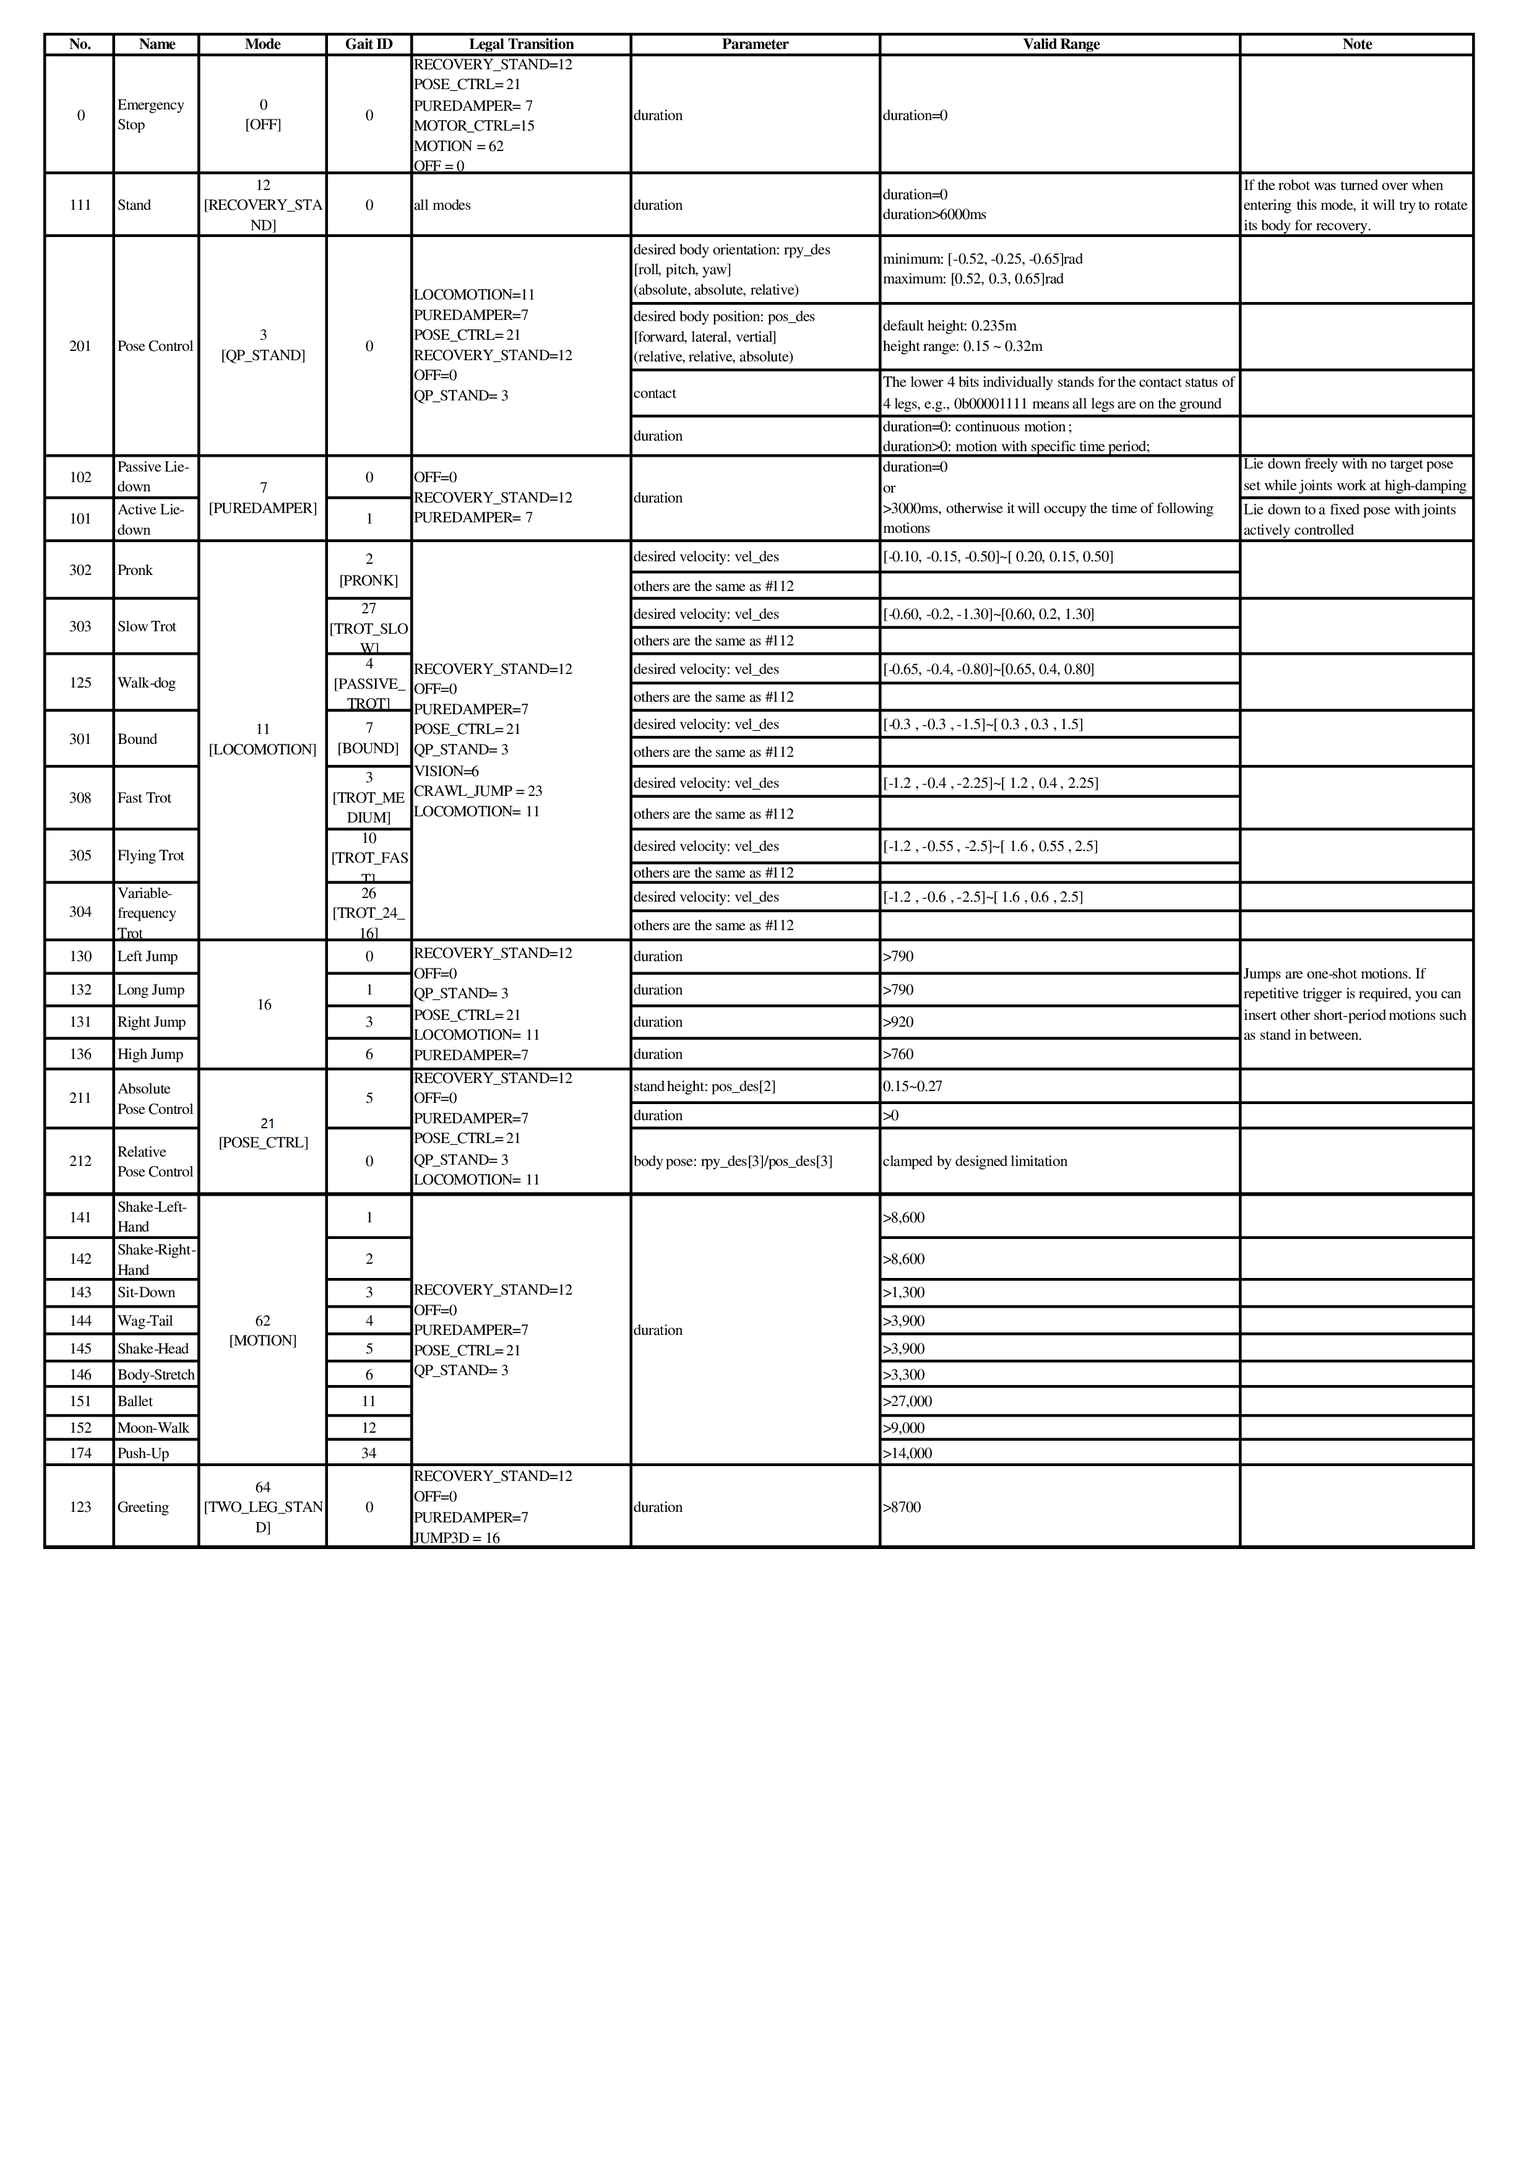
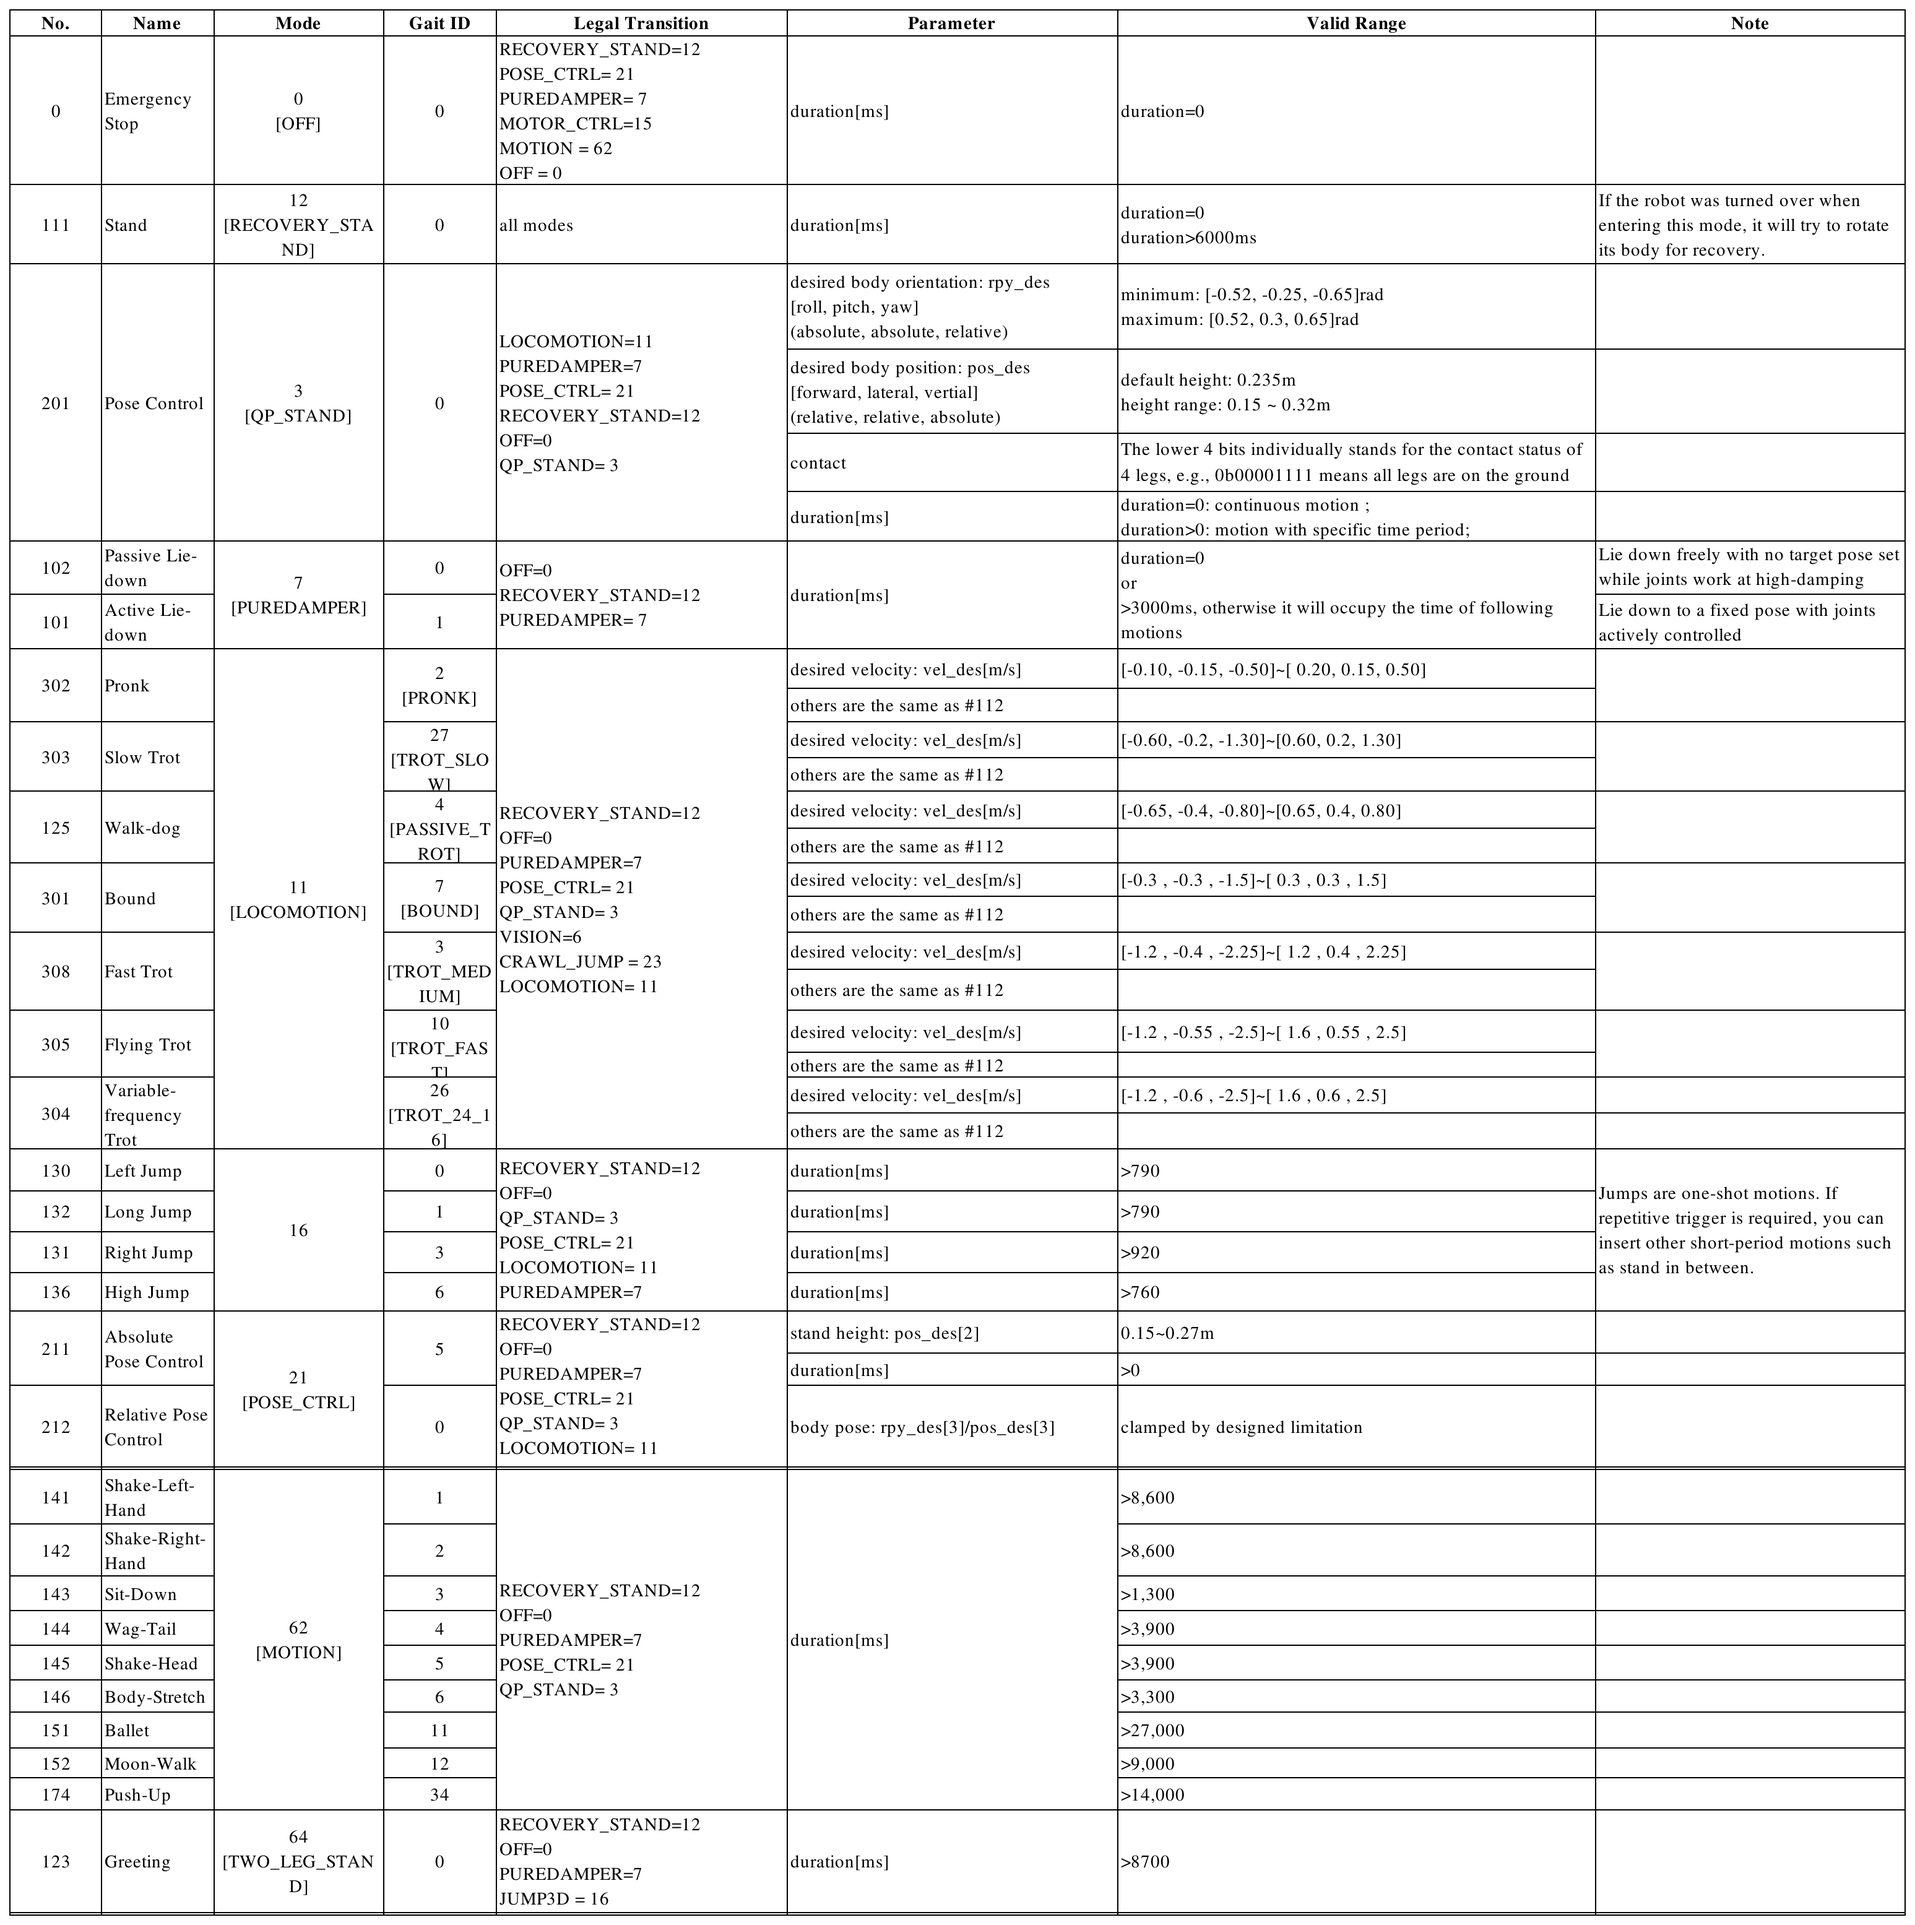
[Modify]: add unit and update robot image
JIRA-ID: N/A

1. as title

diff --git a/docs/en/cyberdog_loco_en.md b/docs/en/cyberdog_loco_en.md
@@ -67,7 +67,7 @@ The robot coordinate system is shown in the figure (a) below, following the righ
 
 The positive rotation direction of the joints follows the right-hand rule around the rotation axis. The joint range, maximum speed and torque are shown in the table below.
 
-| Joint name | Joint range | Maximum speed | Maximum torque | Joint name | Joint range | Maximum speed | Maximum torque |
+| Joint name | Joint range[rad] | Maximum speed[m/s] | Maximum torque[Nm] | Joint name | Joint range[rad] | Maximum speed[m/s] | Maximum torque[Nm] |
 | ------- | -------------- | ----- | -- | ------- | -------------- | ----- | -- |
 | FR-abad | [-0.68, 0.68]  | 38.19 | 12 | FL-abad | [-0.68, 0.68]  | 38.19 | 12 |
 | FR-hip  | [2.79, -1.33]  | 38.19 | 12 | FL-hip  | [2.79, -1.33]  | 38.19 | 12 |

diff --git a/docs/cn/cyberdog_loco_cn.md b/docs/cn/cyberdog_loco_cn.md
@@ -52,7 +52,7 @@ struct example_t
 ![](./image/cyberdog_loco/coordinate.png)
 
 
-| 关节名称 | 关节范围 | 最大速度 | 最大力矩 | 关节名称 | 关节范围 | 最大速度 | 最大力矩 |
+| 关节名称 | 关节范围[rad] | 最大速度[m/s] | 最大力矩[Nm] | 关节名称 | 关节范围[rad] | 最大速度[m/s] | 最大力矩[Nm] |
 | ------ | ------- | ------- | ------- | ------ | ------- | ------- | ------- |
 | FR-侧摆髋关节 | [-0.68, 0.68] | 38.19 | 12 | FL-侧摆髋关节 | [-0.68, 0.68] | 38.19 | 12 |
 | FR-前摆髋关节 | [2.79, -1.33] | 38.19 | 12 | FL-前摆髋关节 | [2.79, -1.33] | 38.19 | 12 |
